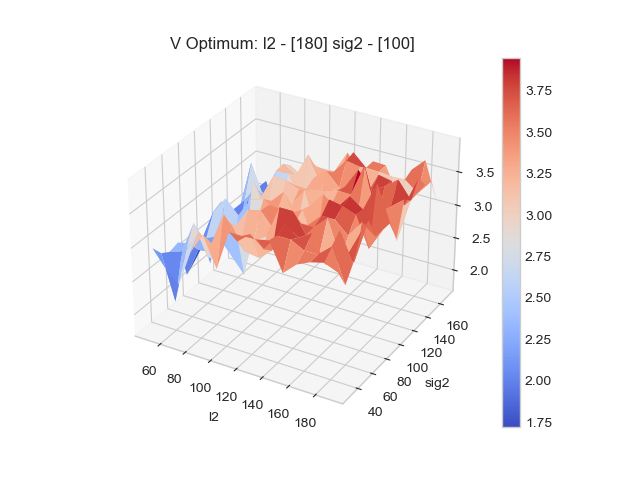
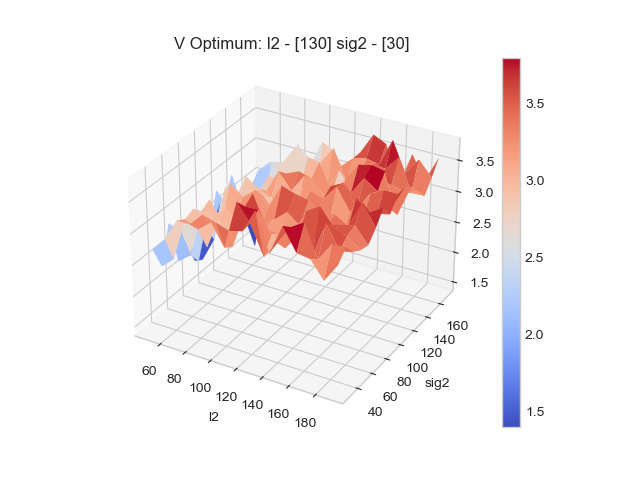
Steps 1-8 in Readme and greek symbols in plots

diff --git a/OceanFlow.py b/OceanFlow.py
@@ -118,8 +118,8 @@ def find_dipoles(u_3d, v_3d, mask, plot=False):
                   f"u-corr coefficient: {corr_u}; v-corr coefficient: {corr_v}")
             marker = "+" if corr_u > 0 else "_"
             ax.scatter([x1, x2], [y1, y2], marker=marker, s=80)
-        plt.savefig("OceanFlowImages/Dipoles.png", format='png', transparent=True)
         plt.title("Positive and Negative Dipoles")
+        plt.savefig("OceanFlowImages/Dipoles.png", format='png', transparent=True)
         plt.show()
 
     return correlations_dict
@@ -133,6 +133,8 @@ def plane_crash(u_3d, v_3d, mask, plane_crash_coordinates, variance=10, num_poin
     distribution specified by mu_x, mu_y, and variance (sigma is assumed to be the same for x and y directions).
     It then computes the flow path of each of those points using the utility function compute_movement
     Plots the resulting data on top of the mask and animates it for 100 time steps
+
+    This simulation assumes velocity of 1 grid space / time unit. If grid space = 3 kms, time steps are 3 hrs apart.
 
     :param u_3d: 3D array (x,y,t)
     :param v_3d: 3D array (x,y,t)
@@ -174,7 +176,7 @@ def plot_crash_coordinates_gauss_prior(u_3d, v_3d, plane_crash_coordinates, hype
     """Will only use the first two parameters of l2 and sig2"""
     l2 = hyperparameters["l2"][0:2]
     sig2 = hyperparameters["sig2"][0:2]
-    fig, axes = plt.subplots(nrows=1, ncols=2, sharex=True, sharey=True)
+    fig, axes = plt.subplots(nrows=1, ncols=2)
     x, y = plane_crash_coordinates
     for array, direction, color, ax, param_l, param_s in zip([u_3d, v_3d], ["U", "V"], ['b', 'r'], axes, l2, sig2):
         velocity = array[x, y, :]
@@ -185,8 +187,9 @@ def plot_crash_coordinates_gauss_prior(u_3d, v_3d, plane_crash_coordinates, hype
         f_prior = np.dot(L, rng.normal(size=(t, 3)))
         ax.plot(time, velocity, c=color, linewidth=1.5)
         ax.plot(time, f_prior, linewidth=.75, alpha=.75)
-        ax.set_title(f"{direction} Direction - l2 = {param_l}, sig2 = {param_s}")
+        ax.set_title(f"{direction} Direction \n $\l^2$ = {param_l} & $\sigma^2$ = {param_s}")
     plt.suptitle(f"Gaussian Prior for [{x}, {y}]")
+    plt.tight_layout()
     plt.savefig(f"OceanFlowImages/gaussian_prior.png", format="png")
     plt.show()
 
@@ -198,14 +201,14 @@ def plot_crash_coordinates_gauss_posterior(u_3d, v_3d, plane_crash_coordinates, 
     fig, axes = plt.subplots(nrows=1, ncols=2)
     x, y = plane_crash_coordinates
     n = 1000
-    for array, dir, color, ax, l_param, s_param in zip([u_3d, v_3d], ["U", "V"], ['b', 'r'], axes, l2, sig2):
+    for array, dir, color, ax, param_l, param_s in zip([u_3d, v_3d], ["U", "V"], ['b', 'r'], axes, l2, sig2):
         ytrain = array[x, y, :]  # aka velocity
         t = len(ytrain)
         xtrain = np.arange(t).reshape(-1, 1)  # aka time
         xtest = np.linspace(0, t, n).reshape(-1, 1)
-        K = OceanFlow_utils.compute_kernel(xtrain, xtrain, l_param, s_param)
-        K_ss = OceanFlow_utils.compute_kernel(xtest, xtest, l_param, s_param)
-        K_s = OceanFlow_utils.compute_kernel(xtrain, xtest, l_param, s_param)
+        K = OceanFlow_utils.compute_kernel(xtrain, xtrain, param_l, param_s)
+        K_ss = OceanFlow_utils.compute_kernel(xtest, xtest, param_l, param_s)
+        K_s = OceanFlow_utils.compute_kernel(xtrain, xtest, param_l, param_s)
         L = np.linalg.cholesky(K + .00005 * np.eye(t))  # 100 x 100
         Lk = np.linalg.solve(L, K_s)  # 100 x 1000
         mu = np.dot(Lk.T, np.linalg.solve(L, ytrain)).reshape((n,))  # 1000
@@ -215,9 +218,10 @@ def plot_crash_coordinates_gauss_posterior(u_3d, v_3d, plane_crash_coordinates, 
         f_post = mu.reshape(-1, 1) + np.dot(L, np.random.normal(size=(n, 3)))  # 1000 x 3
         ax.plot(xtrain, ytrain, c=color, linewidth=1.5)
         ax.plot(xtest, f_post, linewidth=1)
-        ax.set_title(f"{dir} Direction - l2 = {l_param}, sig2 = {s_param}")
+        ax.set_title(f"{dir} Direction \n $\l^2$ = {param_l} & $\sigma^2$ = {param_s}")
         ax.fill_between(xtest.flat, mu - 3 * std_dev, mu + 3 * std_dev, color="#dddddd")
-    plt.suptitle(f"Gaussian Posterior for [{x}, {y}] +/- 3 Std Devs")
+    plt.suptitle(f"Gaussian Posterior for [{x}, {y}] +/- 3$\sigma$")
+    plt.tight_layout()
     plt.savefig(f"OceanFlowImages/{filename}.png", format="png")
     plt.show()
 
@@ -235,7 +239,7 @@ def kernel_heatmap(dim, l2, sig2):
     for l2_outer, s2_outer, ax_outer in zip(l2_mesh, sig2_mesh, axes):
         for l2_inner, s2_inner, ax_inner in zip(l2_outer, s2_outer, ax_outer):
             kernel = OceanFlow_utils.compute_kernel(dummy_vector, dummy_vector, l2_inner, s2_inner)
-            ax_inner.set_title(f"l2 = {l2_inner}, sig2 = {s2_inner}")
+            ax_inner.set_title(f"$\l^2 = {l2_inner}, \sigma^2$ = {s2_inner}")
             sns.heatmap(kernel, ax=ax_inner, square=True, cmap="Blues", vmax=sig2.max())
     plt.suptitle(f"N = {dim} Kernel Covariance Matrix")
     fig.tight_layout()
@@ -324,7 +328,7 @@ def hyperparameter_optimization(direction_vector, direction, hyperparameters):
     ax.set_yticks(np.arange(len(sig2)))
     ax.set_xlabel("l2")
     ax.set_ylabel("sig2")
-    ax.set_title(f"{direction} Optimum: l2 - {max_likelihood['l2']} sig2 - {max_likelihood['sig2']}")
+    ax.set_title(f"{direction} Optimum: $\l^2$ - {max_likelihood['l2']} & $\sigma^2$ - {max_likelihood['sig2']}")
     plt.savefig(f"OceanFlowImages/{direction.upper()}_Parameter_Optimization_Heatmap.png", format="png")
     plt.show()
 
@@ -369,51 +373,23 @@ def main():
 
     # -------------------------------------------------------------------------------------------------------------#
 
-    correlations = find_dipoles(*uv_mask_data, plot=True)
+    # correlations = find_dipoles(*uv_mask_data, plot=True)
 
     # -------------------------------------------------------------------------------------------------------------#
 
-    # Say you have this data and a plane crashed at 400, 400. Where do you look for parts? Let's create as simulation
-    # that shows where the flow possibly took the parts as a function of the timestep and assumed variance
 
     plane_crash_coordinates = [400, 400]
-    plane_crash(*uv_mask_data, plane_crash_coordinates)
+    # plane_crash(*uv_mask_data, plane_crash_coordinates)
 
     # -------------------------------------------------------------------------------------------------------------#
-    # The time steps are quite far apart, so you want to interpolate between seemingly random signals. How do you do
-    # this? Regression methods are parametric and random noise is infinitely parametric. Where would you even begin?
-    # Enter Gaussian Process, a non-parametric approach that "defines a prior over functions, which can be converted
-    # into a posterior over functions once we have seen some data"
-    #
-    # Ocean flow is a great candidate for being modeled by a Gaussian process because the noisy signal requires a
-    # more unconstrained approach to modeling than any regression could provide. Ocean flow is a function of numerous
-    # random elements like temperature, barometric pressure, cloud cover, etc. The sum off all these --> Gaussian
 
-    # Our "prior" estimate before any data is observed is just a Gaussian distribution with mean = 0 and an arbitrary
-    # covariance between points. This covariance matrix can be approximated by a what's called a Kernel, which gives
-    # us a measure of "similarity" between all points in a set. There are certain hyperparameters,
-    # namely the length scale l^2 and sig^2 (get name) that define the Kernel.
-    # For this example, we will use the radial basis function (RBF) kernel because it is infinitely differentiable
-    # (scaled to infinite dimension) and fits noisy models really well.
-    # The key assumption here is that points close in time indices should be correlated with each other. Therefore,
-    # if we know the flow at say times t = 4 and t = 5, we figure the flow at t = 4.5 will be somewhere in between.
-    # And t=4.5 also has some decaying dependence on t = 3, t = 2, etc. We need to map this covariance somehow
-    # Th next step will be to optimize the model by finding the best hyperparameters.
-    # Note, that in this example, all the data points are equally spaced, but that need not be true.
 
-    # First, let's get a sense of what the prior distribution looks like with arbitrary l2 and s2. This is the model
-    # before any data has been incorporated
     l2, sig2 = (10, 1), (1, .1)
     hyperparameters_gaussian_plot = {"l2": l2, "sig2": sig2}
-    plot_crash_coordinates_gauss_prior(u_3d, v_3d, plane_crash_coordinates, hyperparameters_gaussian_plot)
+    # plot_crash_coordinates_gauss_prior(u_3d, v_3d, plane_crash_coordinates, hyperparameters_gaussian_plot)
 
-    # It's clear that a higher length scale smooth smooths out the curves and a lower sigma makes the distribution
-    # tighter. This model assumed the mean = 0, which is clearly not the case. We can incorporate our measurement data
-    # and find a posterior Gaussian model. While the first plot looks like it fits the data well, it is actually a poor
-    # model, as it overfits the data.
+    # -------------------------------------------------------------------------------------------------------------#
 
-    # Let's take a look at what the posterior function looks like with the same hyperparameters. In other words,
-    # after we see some data, how has the model improved?
     plot_crash_coordinates_gauss_posterior(u_3d, v_3d, plane_crash_coordinates, hyperparameters_gaussian_plot,
                                            "gaussian_post")
 
@@ -423,30 +399,12 @@ def main():
     crash_u = u_3d[plane_crash_coordinates[0], plane_crash_coordinates[1], :]
     crash_v = v_3d[plane_crash_coordinates[0], plane_crash_coordinates[1], :]
 
-    # Let's dive deeper into the Kernel function and what it is telling us
-    # The kernel function will input an Nx1 matrix and return a symmetric NxN matrix with all diagonals = 1
-    # and each i,j entry is the covariance between points i,j
-
-    # Let's visualize this
-
     heatmap_l2 = np.array([50, 30, 10])
     heatmap_sig2 = np.array([30, 20, 10])
-    kernel_heatmap(10, heatmap_l2, heatmap_sig2)
+    # kernel_heatmap(10, heatmap_l2, heatmap_sig2)
 
-    # We can see that the length scale defines how quickly the covariance decays as the distance between points gets
-    # further away. We can also see that sigma^2 defines the magnitude of the covariance. The diagonals will be
-    # equal to sigma^2 and decay from there. A higher covariance means a wider, more noisier looking trend.
 
     # -------------------------------------------------------------------------------------------------------------#
-
-    # So what are the hyperparameters that will yield the best model? For that, we need to define a metric by which
-    # to gauge our predictions - a measure of how far off the predictions are from ground truth. We will use the
-    # log-likelihood as the measurement of how good the fit is by using K-Fold cross-validation. The idea here is to
-    # artificially remove some of the data from our ground truth training data, make the prediction with a given set
-    # of hyperparameters, and compare the goodness of fit by using log-likelihood estimation - or what is the
-    # probability of seeing our prediction given the training data, training covariance, and cross-covariance. We
-    # repeat this process for all sets of hyperparameters and for 25 K-folds of the data.
-    # [Insert explanation about log likelihood]
 
     Kfold_hyperparameters = {"l2": 10, "sig2": .05, "tau": 1e-5}
     Kfold_LL = Kfold_function(crash_u, hyperparameters=Kfold_hyperparameters, plot=False)

diff --git a/README.md b/README.md
@@ -3,39 +3,123 @@
 The ocean is a wonderous place - it's mystery
 
 
+###### ELI5 - What is a Gaussian Process?
+You have some data, and there are an infinite number of functions that can fit this data. It could be a straight line, it could be a quadratic curve, it could be a sine wave. Some are better than others. The assumption is that the choice of *function* relative to its *fit* conforms to a Gaussian probability distribution. But we can do better than that - it is actually a conditional Gaussian distribution because it is *conditional* on the known (or training or seen) data points. In other words, the known data gives us some knowledge to construct a joint Gaussian distribution from which to sample.
+
+Okay, maybe ELI18
+
 ### Step 1 - The Data
 The data measures ocean flow velocity in U (east-west) and V (north-south) directions in an approximately 1500 km x 1500 km grid in the Philippines Archipelago.
 
 The data comes in the form of 200 csv files, each of which contains a 504 x 555 grid of velocity data, and one mask file that differentiates land and water.
 
-There are 100 csv files for each direction U & V, and each file represents a particular unit in time. We assume that the time points are equally spaced, and that measurements are taken at consistent (x, y) coordinates. This data is loaded into two, 3-D NumPy arrays (x, y, t). Velocity on land is entered as 0.
+There are 100 csv files for each direction, and each file represents a particular unit in time. We assume that the time points are equally spaced, and that measurements are taken at consistent (x, y) coordinates. This data is loaded into two, 3-dimensional NumPy arrays (x, y, t). Velocity on land is 0.
 
 ### Step 2 - Streamplots Visualization
 
 It's hard to get a sense of what we are actually looking at here with this data. Let's visualize what the ocean flow looks like using Matplotlib's Streamplots and Animation functionalities. We also weight the "arrows" by the velocity, so we see where the current is strongest and how it changes over time.
 
-<img src="OceanFlowImages/Streamplots.gif" width="500">
+<center><img src="OceanFlowImages/Streamplots.gif" width="500"></center>
 
 
 ### Step 3 - Dipoles & Correlation
 
-The [Indian Ocean Dipole]( https://en.wikipedia.org/wiki/Indian_Ocean_Dipole) is a temperature anomaly in which the eastern and western regions of the Indian Ocean are extremely negatively correlated, which has far-reaching climate impacts that can be felt as far as South America through its impact on El Nino.
+The [Indian Ocean Dipole](https://en.wikipedia.org/wiki/Indian_Ocean_Dipole) is a temperature anomaly in which the eastern and western regions of the Indian Ocean are extremely negatively correlated, which has far-reaching climate impacts that can be felt as far as South America through its impact on El Nino.
 
-
-Nothing this impactful exists in the data we have, but it is a good exercise to see if we can come up with some long-range correlations in this data. The algorithm uses random sampling instead of calculating a (504x555)<sup>2</sup> correlation coefficients and is explained in detail in the docstring of the function titled find_dipoles in OceanFlow.py
+Nothing this impactful exists in the data we have, but it is a good exercise to see if there are some long-range correlations in this data. The algorithm uses random sampling instead of calculating a (504x555)<sup>2</sup> correlation matrix and is explained in more detail in the docstring of the function titled find_dipoles in OceanFlow.py
 
 ![Indian Ocean Dipole](OceanFlowImages/Dipoles.png)
 
-
 ### Step 4 - A Plane Crash!
+
+Imagine there is a hypothetical plane crash in the ocean near the Philippines. A search party knows the location of the accident, but some time has elapsed. Where would be the best place to look after time T = t? We can build a simulation of the ocean flows by using the algorithm described in the docstring of plane_crash in OceanFlow.py
+
+For a plane crash at point [400, 400] with an assumed variance of 10 for x and y directions.
+
+<center><img src="OceanFlowImages/PlaneSearch.gif" width="500" class="center"></center>
+
 
 ### Step 5 - Gaussian Priors
 
+In the last step, we made a pretty large assumption about the interval of the time steps. What if we only had data every 3 days or longer - we would need a model that can interpolate this noisy data. The typical method that might come to mind is some kind of regression, but it's obvious after looking at the random, cyclic nature of the data that we need a more flexible method.
+
+Enter Gaussian Process, a non-parametric approach that "defines a prior over functions, which can be converted into a posterior over functions once we have seen some data (K. Murphy)"
+
+Rasmussen & Williams explain
+
+> A Gaussian process is a generalization of the
+Gaussian probability distribution. Whereas a probability distribution describes
+random variables which are scalars or vectors (for multivariate distributions),
+a stochastic process governs the properties of functions. Leaving mathematical
+sophistication aside, one can loosely think of a function as a very long vector,
+each entry in the vector specifying the function value f(x) at a particular input
+x. It turns out, that although this idea is a little naïve, it is surprisingly close
+what we need. Indeed, the question of how we deal computationally with these
+infinite dimensional objects has the most pleasant resolution imaginable: if you
+ask only for the properties of the function at a finite number of points, then
+inference in the Gaussian process will give you the same answer if you ignore the
+infinitely many other points, as if you would have taken them all into account!
+
+The key idea here is that if two values are deemed to be similar by the kernel covariance matrix (more on that later), then the outputs of those values in the function should also be correlated. In other words, if two instances in time are close together, their resulting flow velocity should be similar. Sounds intuitive, right? We just have to find the joint probability distribution over the functions. Our known, truth, or seen data are the data in the 3-D matrices, and any unknown or unseen data are any values in between (eg - we know the flow at t=4 and t=5, but t=4.5 is "unseen").
+
+Ocean flow is a great candidate for being modeled by a Gaussian process because the noisy signal requires a more unconstrained approach to modeling. Ocean flow is a function of numerous random elements like temperature, barometric pressure, cloud cover, etc. The sum off all these yields Gaussian distribution ([Central Limit Theorem](https://en.wikipedia.org/wiki/Central_limit_theorem)).
+
+The Gaussian prior is sampling data from a Gaussian distribution with mean = 0 and a variance specified by the kernel covariance matrix, which is constructed with two hyperparameters: l<sup>2</sup> and σ<sup>2</sup> or length scale and variance. It is the model *before* the joint distribution is created from the training data.
+<p>
+<center><img src="OceanFlowImages/gaussian_prior.png" width="500" class="center"></center>
+</p>
+<p>
+These appear to be just noisy trends, but the hyperparameters chosen clearly have a large impact on the model even without any data. We'll get into this in step 7.
+</p>
+
+
 ### Step 6 - Gaussian Posterior
+
+The Gaussian posterior are values sampled from the joint probability distribution of the functions of seen and unseen data. Some pretty detailed linear algebra gets us to this point, and if you are curious, you can read more about it in the sources listed at the end of this README.
+
+We are now continuously sampling from a joint distribution that takes into account the ground truth data to get values at a much higher granularity.
+
+Let's look at the same posterior model using the same hyperparameters as before.
+<p>
+<center><img src="OceanFlowImages/gaussian_post.png" width="500" class="center"></center>
+</p>
+
+A definite improvement! The grey error bands are 3 standard deviations away, and they seem to fit the model fairly well.
+</p>
+However, these are actually pretty terrible models. The first is definitely overfitting the data and would be quite inflexible, and the second one is much too noisy. We need to optimize the hyperparameters to get a best-fit model, but first we need to look more closely at how they impact the covariance matrix.
+</p>
 
 ### Step 7 - Visualizing Kernels as Covariance Matrices
 
+The covariance matrix is the multivariate extension to the variance specified in a typical Gaussian distribution. Kernels are essentially a similarity metric and are therefore typically used as covariance matrices in ML (gross over-simplification - a lot of mathematical proof behind this).
+
+The kernel function will input an Nx1 matrix and return a symmetric, semi-definite NxN matrix and with each *(i, j)* entry equal to the covariance between points *(i, j)*. For cross-covariance, the input is an Nx1 and Mx1 matrix that returns a triangular NxM covariance matrix.
+
+In this particular model, I chose to use a radial basis function kernel, which has two hyperparameters. The l<sup>2</sup> or length scale term indicates how fast the covariance decays as a function of the square distance between the points, and σ<sup>2</sup> determines the variance at the diagonals. This is visualized below in the grid of heatmaps, which shows a N=10 kernel with varying hyperparameters.
+
+<p>
+<center><img src="OceanFlowImages/Kernel_Heatmap.png" width="500" class="center"></center>
+</p>
+
+[RBF Kernel](https://en.wikipedia.org/wiki/Radial_basis_function_kernel) - description of the kernel used in this model
+
+[Covariance](https://en.wikipedia.org/wiki/Covariance_function) - General information about covariance
+
+
 ### Step 8 - K-Fold Cross-Validation & Log Likelihood
+
+One method of hyperparameter selection is to perform a [K-Fold Cross-Validation](https://scikit-learn.org/stable/modules/generated/sklearn.model_selection.KFold.html), which leaves out a 'fold' of the training data and calculates how well the model performs.
+
+<p>
+<center><img src="OceanFlowImages/KFold_Ex.png" width="500" class="center"></center>
+<center>Source: Rebecca Patro - Towards Data Science</center>
+</p>
+
+But wait, what exactly is the error function here - how do we gauge how well the model performs? Enter maximizing the log-likelihood - this metric tells us the [logarithm of the] likelihood of seeing the posterior function from each iteration of the cross-validation, given the known training data, the training covariance matrix, and the cross-covariance matrix between the training and [artificially] unseen data and takes into account both the model-fit and model-complexity. The implementation can be seen in the get_log_likelihood function in OceanFlow_utils.py
+
+[Literature on log likelihood](http://www.gaussianprocess.org/gpml/chapters/RW5.pdf)
+
+
 
 ### Step 9 - Hyperparameter Optimization
 
@@ -43,3 +127,7 @@ Nothing this impactful exists in the data we have, but it is a good exercise to 
 
 
 ##### Sources
+
+[Katherine Bailey blog post](https://katbailey.github.io/post/gaussian-processes-for-dummies/) - If you want a slightly more in-depth version
+
+[Gaussian Process for Machine Learning by Rasmussen & Williams](http://www.gaussianprocess.org/gpml/chapters/) - If you want the entire textbook
